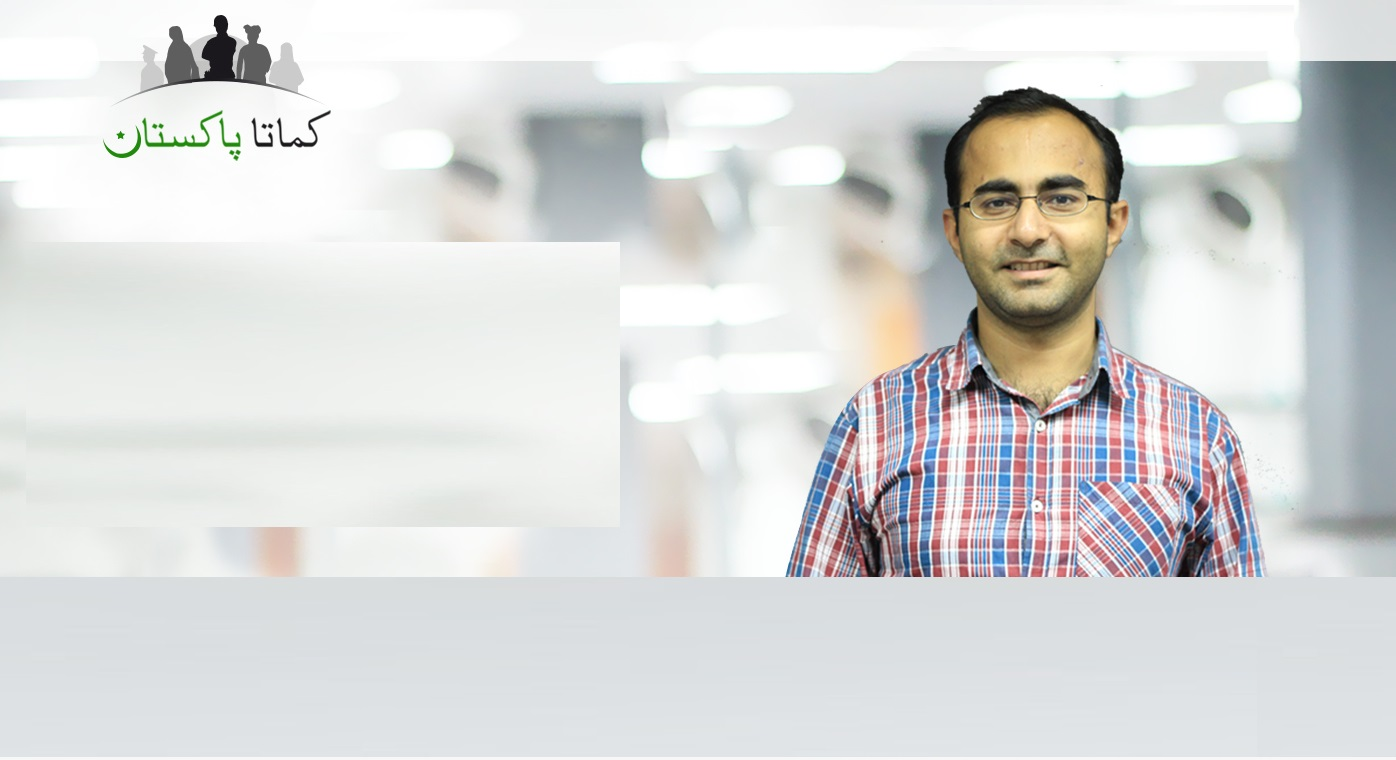
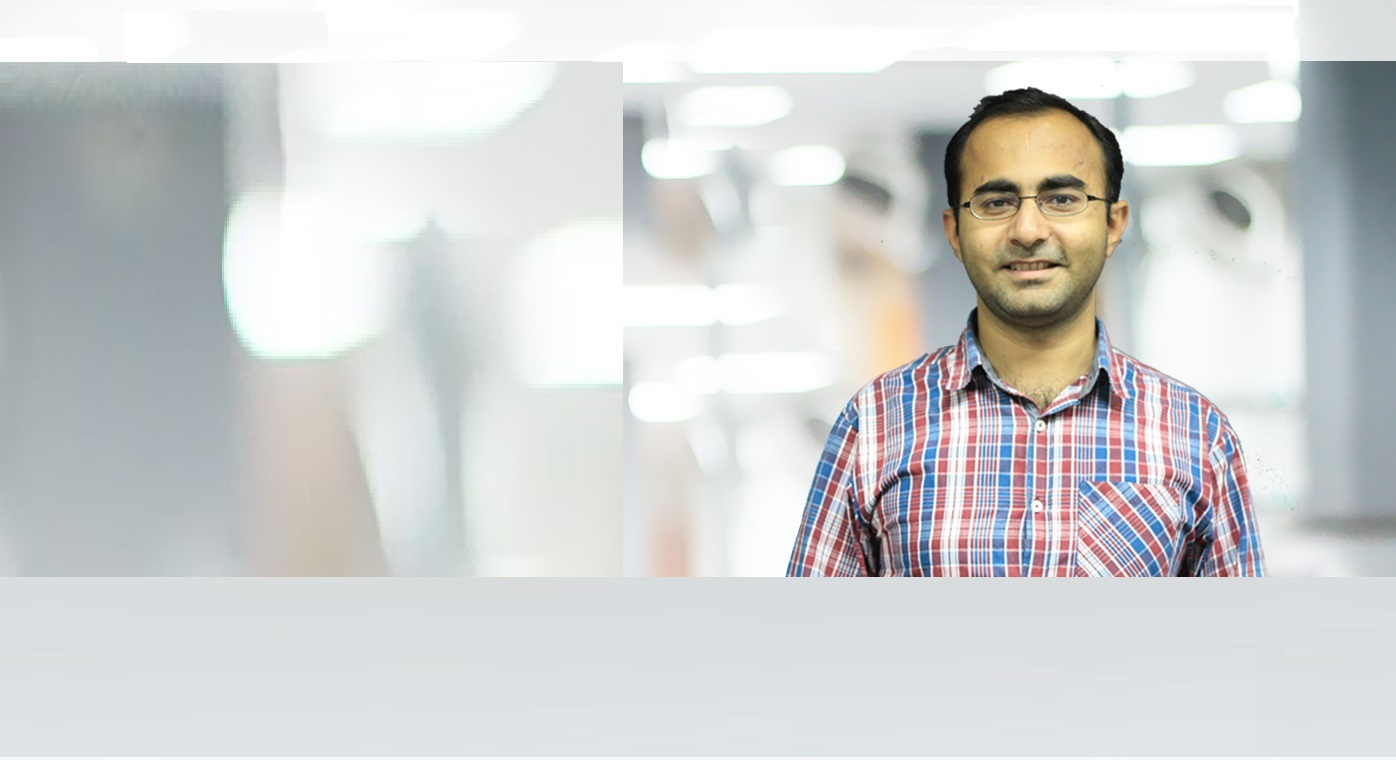
second commit

Changed region(s): [[0.0, 0.0303, 0.462, 0.7566], [0.4312, 0.4842, 0.462, 0.5145]]

diff --git a/index.html b/index.html
@@ -3,37 +3,60 @@
 	<head>
 		<title>JobSeeker</title>
 		<meta charset="utf-8">
+		<link href='http://fonts.googleapis.com/css?family=Arimo:400,700,400italic,700italic' rel='stylesheet' type='text/css'>
+		<link href='http://fonts.googleapis.com/css?family=Arimo:400,700,400italic,700italic|Source+Code+Pro|Roboto:400,300italic,300,400italic,900,900italic,700' rel='stylesheet' type='text/css'>
 		<link rel="stylesheet" href="css/main.css">
 	</head>
 	<body>
 		<div class="first">
-			<header>
-				<ul>
-					<li>Search Jobseeker</li>
-					<li>Contact Us</li>
-					<li>Sign In</li>
-
-				</ul>
-			</header>
-			<h1>Post a Job.</h1>	
-			<p>Post your job for free.<p>
-			<p>it takes less than 60 second.</p>
-			<p>View Profile of 1000s of Jobseekers</p>
-			<p>Detail of jobseekers are verified</p>
-			<input type="button" value="Post a Job">
-			<p>Hire Drivers, Guards, Home and Office Helper.</p>
-			<p>Save Time by Hiring Online &nbsp;&period;&nbsp; Hassle free &nbsp;&period;&nbsp; Trust Worthy Candidates</p>
+			<section id="first">
+				<header>
+					<ul>
+						<li><a href="#">Search Jobseeker</a></li>
+						<li><a href="#">Contact Us</a></li>
+						<li><a href="#">Sign In</a></li>
+					</ul>
+				</header>
+			</section>
+			<section id="second">
+				<h1>Post a Job.</h1>	
+				<p>Post your job for free.<p>
+				<p>it takes less than 60 second.</p>
+				<p>View Profile of 1000s of Jobseekers</p>
+				<p>Detail of jobseekers are verified</p>
+				<input type="button" value="Post a Job">
+			</section>
+			<section id="third">
+				<h1>Hire Drivers, Guards, Home and Office Helper.</h1>
+				<p>Save Time by Hiring Online &nbsp;&period;&nbsp; Hassle free &nbsp;&period;&nbsp; Trust Worthy Candidates</p>
+			</section>
 		</div>
 		<div class="second">
 			<h1>How it Works</h1>
-			<p>Get Started with Post a Job</p>
-			<p>Submit Job Informatiion</p>
-			<p>Search Jobseekers for Job</p>
-			<p>View their mobile Numbers</p>
-
+				<ul class="process">
+					<li>
+						<img src="img/list_icon.png">
+						<p>Get Started with Post a Job</p>
+					</li>
+					<li><img src="img/arrow.png"></li>
+					<li>
+						<img src="img/todo_list.png">
+						<p>Submit Job Informatiion</p>
+					</li>
+					<li><img src="img/arrow.png"></li>
+					<li>
+						<img src="img/mag_glass.png">
+						<p>Search Jobseekers for Job</p>
+					</li>
+					<li><img src="img/arrow.png"></li>
+					<li>
+						<img src="img/phonebook.png">
+						<p>View their mobile Numbers</p>
+					</li>
+				</ul>
 		</div>
 		<div class="third">
-			<h1>Lookin for a Job</h1>
+			<h1>Looking for a Job</h1>
 			<p>Create profile for free and get SMS for new Jobs</p>
 			<p>Find your dream job</p>
 			<input type="button" value="Get Started">
@@ -44,10 +67,10 @@
 		</div>
 		<div class="fifth">
 			<ul>
-					<li>Get Background check</li>
-					<li>Privacy Policy</li>
-					<li>Pricing</li>
-					<li>About us</li>
+					<li><a href="#">Get Background check</a></li>
+					<li><a href="#">Privacy Policy</a></li>
+					<li><a href="#">Pricing</a></li>
+					<li><a href="#">About us</a></li>
 			</ul>
 		</div>
 	</body>

diff --git a/css/main.css b/css/main.css
@@ -1,37 +1,151 @@
 
 html , body{
 	width: 100%;
- 	height:160%;
+ 	height:130%;
  	margin: 0 0;
  	padding: 0 0;
+ 	background: red;
 }
 body > div {
 	width: 100%;
 	height:15%;
-	margin: 0 0;
+	margin: 0 auto;
 	padding: 0 0;
 }
+#first{
+	height: 30%;
+}
+#second{
+	height: 48%;
+	display: block;
+	margin-left: 17%;
+	padding: auto;
+}
+#second h1{
+	font-weight: 400;
+	padding-bottom: 2%;
+	font-size: 250%;
+}
+#seconf p{
+	font-size: 300%;
+}
+#second input{
+	color: white;
+	box-shadow: none;
+	border: none;
+	margin-top: 2%;
+	background: green;
+	height: 16%;
+	width: 12%;
+	font-size: 100%;
+}
+
+#third{
+	height: 22%;
+	background:-webkit-linear-gradient(to bottom,#404040,transparent);
+	background: linear-gradient(to bottom,#404040,transparent);
+	color: white;
+	vertical-align: middle;
+	text-align: center;
+}
+#third h1{
+	font-weight: 100;
+	font-size: 220%;
+	padding-bottom: 1%;
+	text-align: center;
+}
 .first{
-	background: url('../img/7.jpg') repeat;
-	background-color: blue;
+	font-family: 'Arimo', sans-serif;
 	height:40%;	
+	background: url('../img/jobseeker_homepage.png') no-repeat left top,url('../img/7.jpg');
+}
+.first ul{
+	float: right;
+	margin-right: 7%;
+
+}
+.first h1{
+	clear:right;
+	text-align: left;
 }
 .second{
+	font-family: 'Roboto', sans-serif;
 	background-color: white;
 	height:20%;
 }
+.second h1{
+	color: #808080;
+	font-weight: normal;
+	font-size: 250%;
+}
+.second ul{
+	text-align: center;
+	vertical-align: middle;
+}
 
 .third{
-	background-image: url('../img/fir.jpg') ;
-	background-repeat: no-repeat;
-	background-color: green;
-	background-size: 100% 100%;	
+	font-family: 'Arimo', sans-serif;
+	background:url('../img/blur.jpg') no-repeat;
+	background-size: 100% 100%;
+	text-align: center;
+	vertical-align: middle;
+	height:20%;
+}
+.third h1{
+	font-weight: 100; 
+	padding: 1%;
+}
+.third p{
+	padding-top: 1%;
+}
+.third input{
+	color: white;
+	background: green;
+	box-shadow: none;
+	border: none;
+	margin-top: 2%;
+	height: 16%;
+	width: 12%;
+	font-size: 100%;
 }
 .fourth{
+	font-family: 'Roboto', sans-serif;
 	background-color: white;	
 }
 .fifth{
+	font-family: 'Arimo', sans-serif;
 	background-color: black;
 	height:5%;
+}
+.fifth a{
+	color: white;
+}
+ul{
+	list-style: none;
+	margin: 0 0;
+
+}
+li {
+	display: inline-block;
+	padding: 10px;
+	margin: 0 0;
+}
+a {
+	text-decoration: none;
+	color: black;
+	margin: 0 0;
+}
+h1{
+	text-align: center;
+}
+h1, p, input, header{
+	margin: 0 0;
+}
+.process li{
+	text-align: center;
+	height:5%; 
+	width:10%;
+	color: #808080;
+	vertical-align:middle;
 }
 
